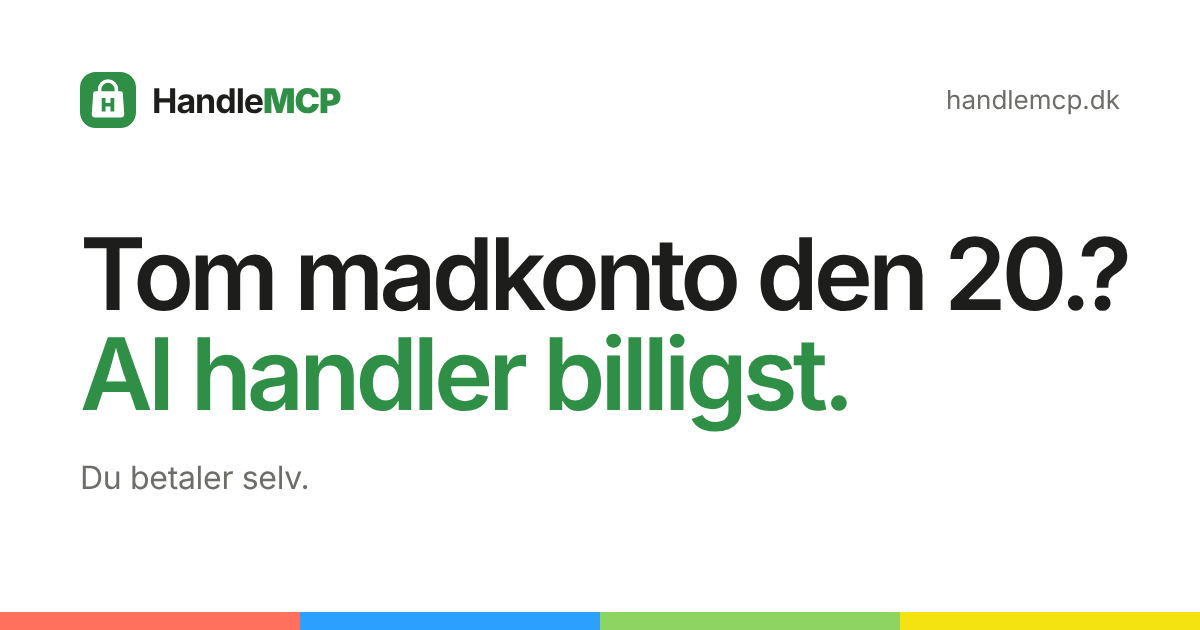
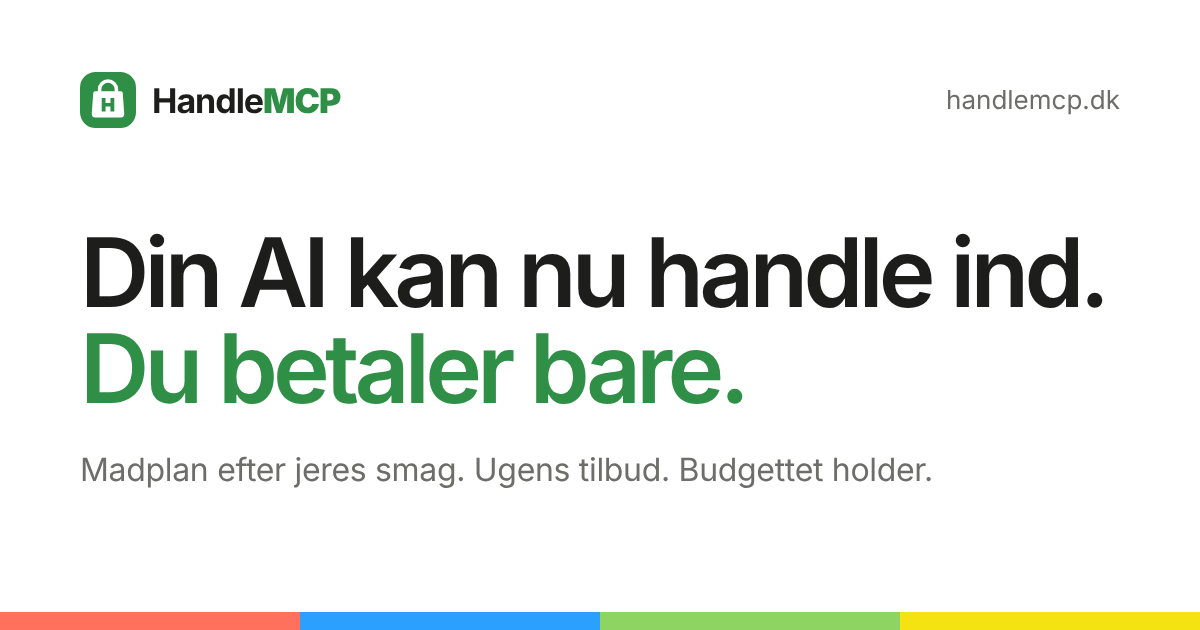
🔍 Lead the share image with what the AI can do

Changed region(s): [[0.0617, 0.3619, 0.9558, 0.6937], [0.0617, 0.7238, 0.7708, 0.7841]]

diff --git a/docs/index.html b/docs/index.html
@@ -12,15 +12,15 @@
 <meta property="og:locale" content="da_DK">
 <meta property="og:type" content="website">
 <meta property="og:url" content="https://handlemcp.dk/">
-<meta property="og:title" content="HandleMCP: tom madkonto den 20.?">
-<meta property="og:description" content="Én handel om ugen. Et budget der holder. Din AI planlægger og fylder kurven, du betaler selv.">
+<meta property="og:title" content="HandleMCP: din AI kan nu handle ind">
+<meta property="og:description" content="Madplan efter jeres smag, ugens tilbud hos nemlig.com og BilkaToGo, og et budget der holder. Din AI fylder kurven. Du betaler bare.">
 <meta property="og:image" content="https://handlemcp.dk/og.png">
 <meta property="og:image:width" content="1200">
 <meta property="og:image:height" content="630">
-<meta property="og:image:alt" content="HandleMCP. Tom madkonto den 20.? AI handler billigst. Du betaler selv.">
+<meta property="og:image:alt" content="HandleMCP. Din AI kan nu handle ind. Du betaler bare. Madplan efter jeres smag. Ugens tilbud. Budgettet holder.">
 <meta name="twitter:card" content="summary_large_image">
-<meta name="twitter:title" content="HandleMCP: tom madkonto den 20.?">
-<meta name="twitter:description" content="Én handel om ugen. Et budget der holder. Din AI planlægger og fylder kurven, du betaler selv.">
+<meta name="twitter:title" content="HandleMCP: din AI kan nu handle ind">
+<meta name="twitter:description" content="Madplan efter jeres smag, ugens tilbud hos nemlig.com og BilkaToGo, og et budget der holder. Din AI fylder kurven. Du betaler bare.">
 <meta name="twitter:image" content="https://handlemcp.dk/og.png">
 <meta name="color-scheme" content="light">
 <link rel="sitemap" type="application/xml" href="/sitemap.xml">
